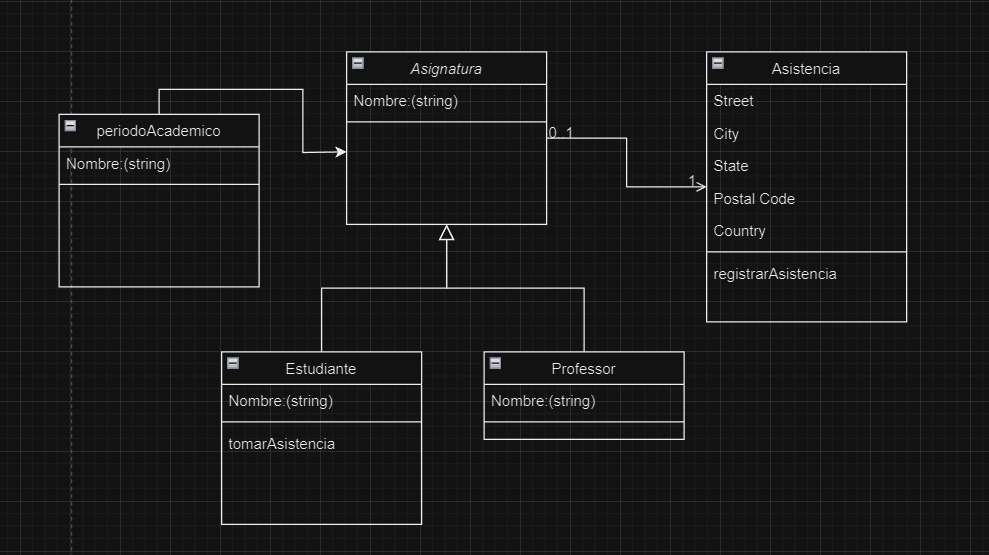
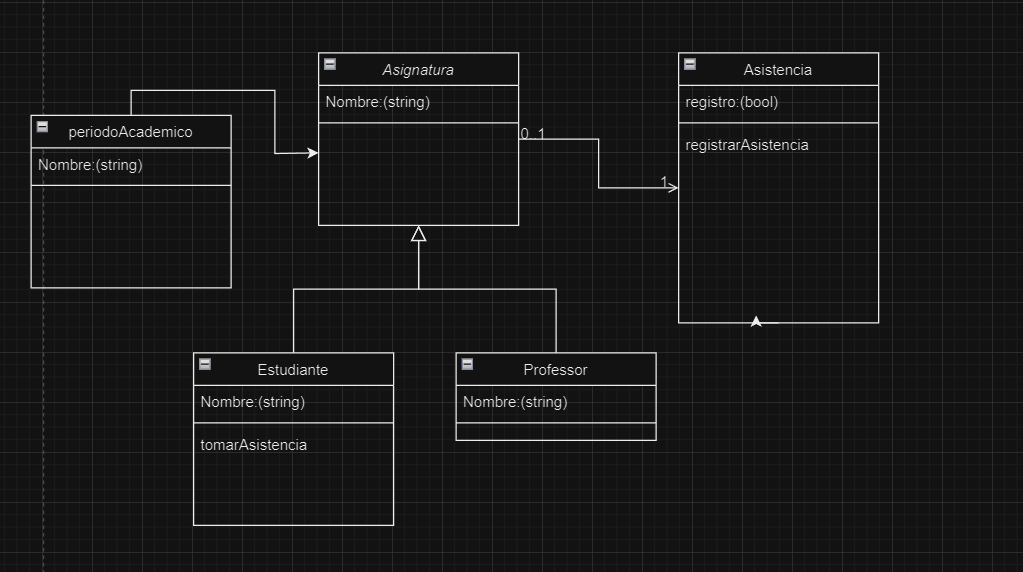
Cambio en el diagrama UML
cambio el diagrama UML

diff --git a/sistema.html b/sistema.html
@@ -11,7 +11,7 @@
     <header>
         <h1>Sistema de Asistencias</h1>
     </header>
-
+    <h1>Diagrama del funcionamiento del Programa de asistencias:</h1>
     <img src="diagramaUML.png" alt="Diagrama UML">
 
     <form id="profesorForm">
